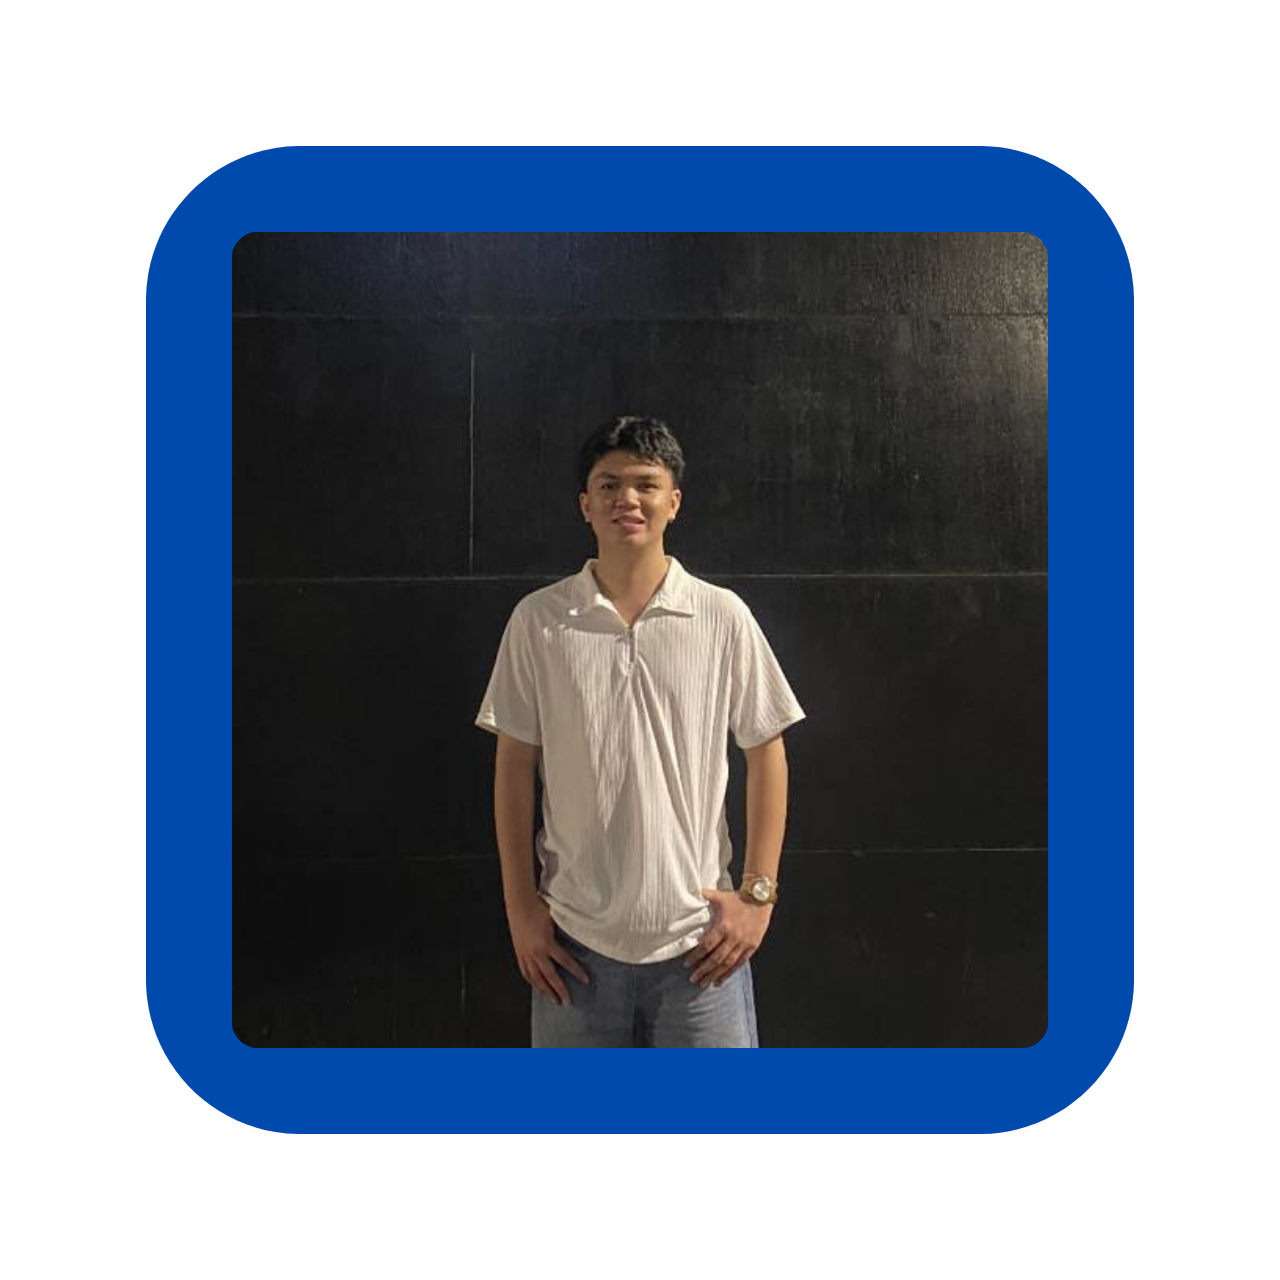
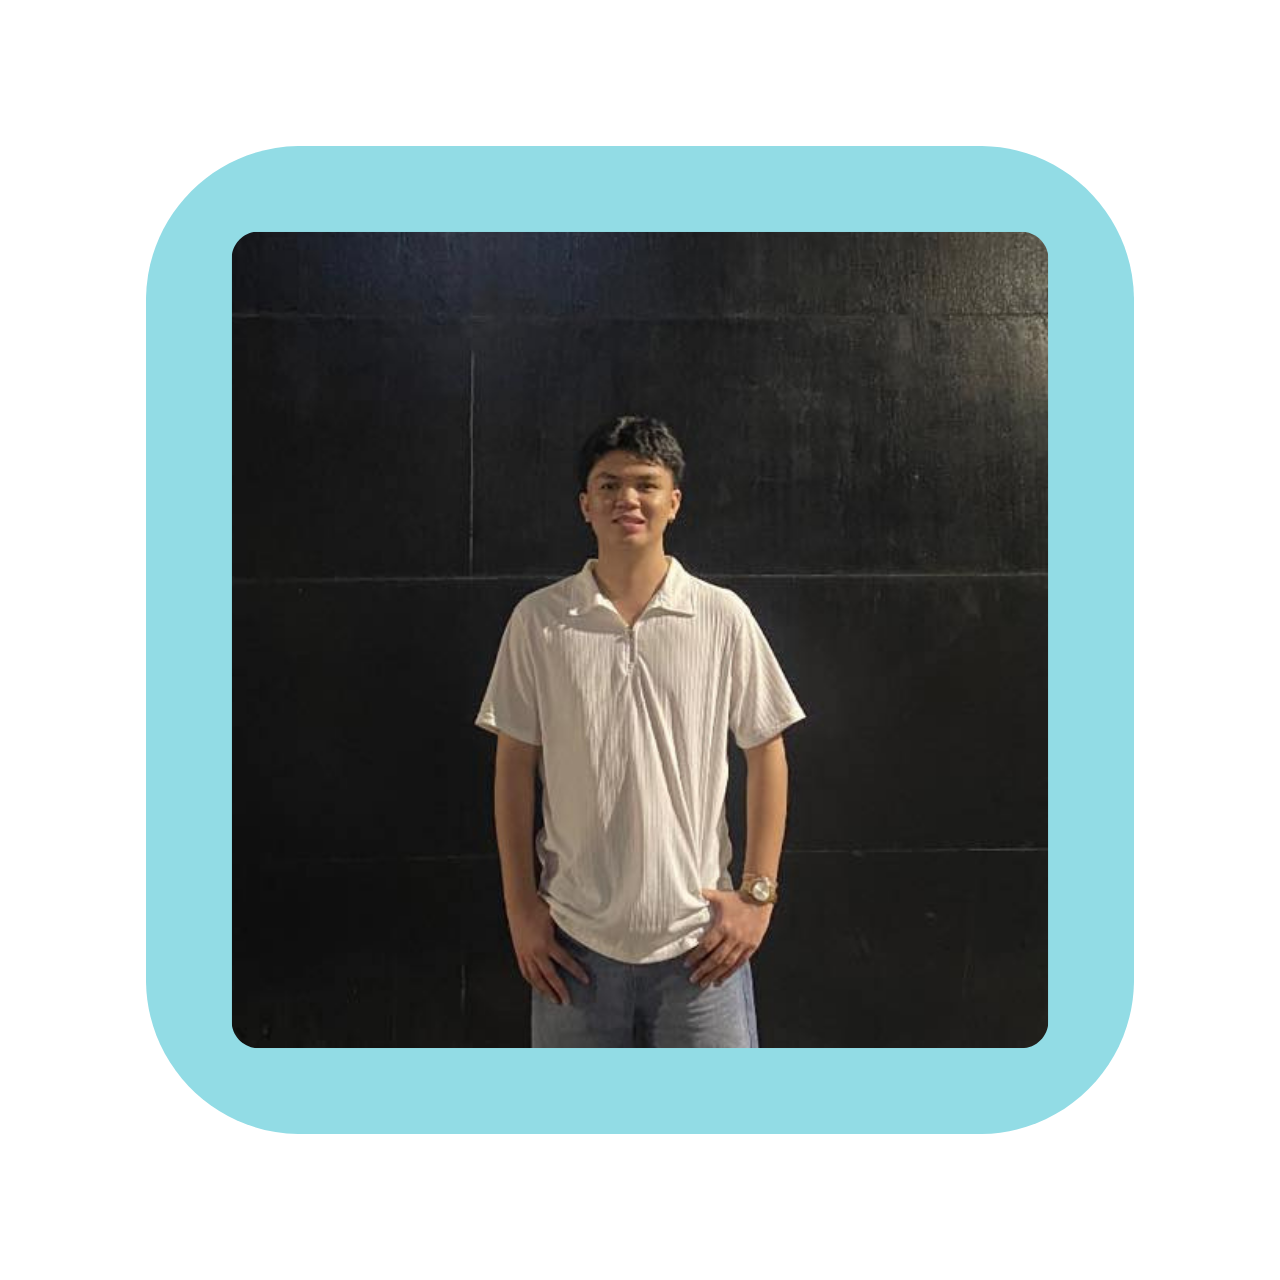
idk everything

Changed region(s): [[0.0938, 0.0938, 0.9062, 0.9062]]

diff --git a/index.html b/index.html
@@ -25,7 +25,6 @@
             <a href="#about">About Me</a>
             <a href="#skills">Skills</a>
             <a href="#portfolio">Portfolio</a>
-            <a href="#contact">Contact</a>
         </nav>
     
     </header>
@@ -74,7 +73,7 @@
     <!--SKILLS-->
 
     <section class="skills" id="skills">
-        <h2 class="heading">My <span>Skills</span></h2>
+        <h2 class="heading">My <span>Skills and Interests</span></h2>
 
         <div class="skills-container">
             <div class="skills-box">
@@ -100,6 +99,50 @@
         </div>
     </section>
 
+    <!--PORTFOLIO-->
+
+    <section class="portfolio" id ="portfolio">
+        <h2 class="heading">Recent <span>Projects</span></h2>
+
+        <div class="portfolio-container">
+            <div class="portfolio-box">
+                <img src="plumber.png" alt="">
+                <div class="portfolio-layer">
+                    <h4>Python Compiler Development</h4>
+                    <p>Lorem ipsum dolor sit amet, consectetur adipisicing elit. Illo facilis eius deserunt ut labore commodi perspiciatis, aperiam voluptates quia quo asperiores, fugit assumenda soluta esse aut molestiae ipsum illum quasi.</p>
+                    <i class="fa-solid fa-up-right-from-square"></i>
+                </div>
+            </div>
+
+            <div class="portfolio-box">
+                <img src="kuwero.png" alt="">
+                <div class="portfolio-layer">
+                    <h4>Web Development</h4>
+                    <p>Lorem ipsum dolor sit amet, consectetur adipisicing elit. Illo facilis eius deserunt ut labore commodi perspiciatis, aperiam voluptates quia quo asperiores, fugit assumenda soluta esse aut molestiae ipsum illum quasi.</p>
+                    <i class="fa-solid fa-up-right-from-square"></i>
+                </div>
+            </div>
+
+            <div class="portfolio-box">
+                <img src="smartplate.png" alt="">
+                <div class="portfolio-layer">
+                    <h4>Python App Development</h4>
+                    <p>Lorem ipsum dolor sit amet, consectetur adipisicing elit. Illo facilis eius deserunt ut labore commodi perspiciatis, aperiam voluptates quia quo asperiores, fugit assumenda soluta esse aut molestiae ipsum illum quasi.</p>
+                    <i class="fa-solid fa-up-right-from-square"></i>
+                </div>
+            </div>
+    
+   
+            
+
+            
+
+        
+        </div>
+    </section>
+
     <script src ="script.js"></script>
+
+    
 </body>
 </html>

diff --git a/styles.css b/styles.css
@@ -13,10 +13,10 @@
   }
 
   :root {
-    --bg-color: #191f36;
-    --snd-bf-color: #262B40;
+    --bg-color:#170B3B;
+    --snd-bf-color: #191f36;
     --text-color: #fff;
-    --main-color: #59B2F4;
+    --main-color: #92dce5;
     
   }
 
@@ -227,6 +227,115 @@
     margin: 1rem 0 3rem;
 }
 
+.portfolio {
+  background: var(--snd-bf-color);
+}
+
+.portfolio h2{
+  margin-bottom: 4rem;
+}
+
+.portfolio-container{
+  display:grid;
+  grid-template-columns: repeat(3,  1fr);
+  align-items: center;
+  gap: 2.5rem;
+}
+
+.portfolio-container .portfolio-box{
+  position:relative;
+  border-radius: 2rem;
+  box-shadow: 0 0 1rem var(--main-color);
+  overflow: hidden;
+  display: flex;
+}
+
+.portfolio-box img{
+  width: 100%;
+  height: auto;
+  transition: .5s ease;
+  opacity: 0.7;
+}
+
+.portfolio-box:hover img{
+  transform: scale(1.1);
+}
+
+.portfolio-box .portfolio-layer{
+  position: absolute;
+  bottom: 0;
+  left: 0;
+  width: 100%;
+  height: 100%;
+  background: linear-gradient(rgba(0,0,0,0.1)), var(--main-color);
+  display: flex;
+  justify-content: center;
+  align-items: center;
+  flex-direction: column;
+  text-align: center;
+  padding: 0 4rem;
+  transform: translateY(100%);
+  transition: .5s ease;
+}
+
+.portfolio-box:hover .portfolio-layer{
+  transform: translateY(0);
+}
+
+.portfolio-layer h4{
+  font-size: 3rem;
+}
+
+.portfolio-layer p{
+  font-size: 1.6rem;
+  margin: .3rem 0 1rem;
+}
+
+.portfolio-layer a{
+  display: inline-flex;
+  justify-content: center;
+  align-items: center;
+  width: 5rem;
+  height: 5rem;
+  background: var(--text-color);
+  border-radius: 50%;
+}
+
+.portfolio-layer a i {
+  font-size: 2rem;
+  color: var(--snd-bf-color);
+}
+
+@media (max-width: 1200px){
+  html {
+    font-size: 55%;
+  }
+}
+
+@media (max-width: 991px) {
+  .header {
+    padding: 2rem 3%;
+  }
+}
+  .section {
+    padding: 10rem 3%;
+  }
+
+  .services {
+    padding: 7rem;
+  }
+
+  .portfolio {
+    padding-bottom: 7rem;
+  }
+
+  .contact {
+    min-height: auto;
+  }
+
+@media (max-width: 768px) {
+  #menu-icon
+}
 
 
   
